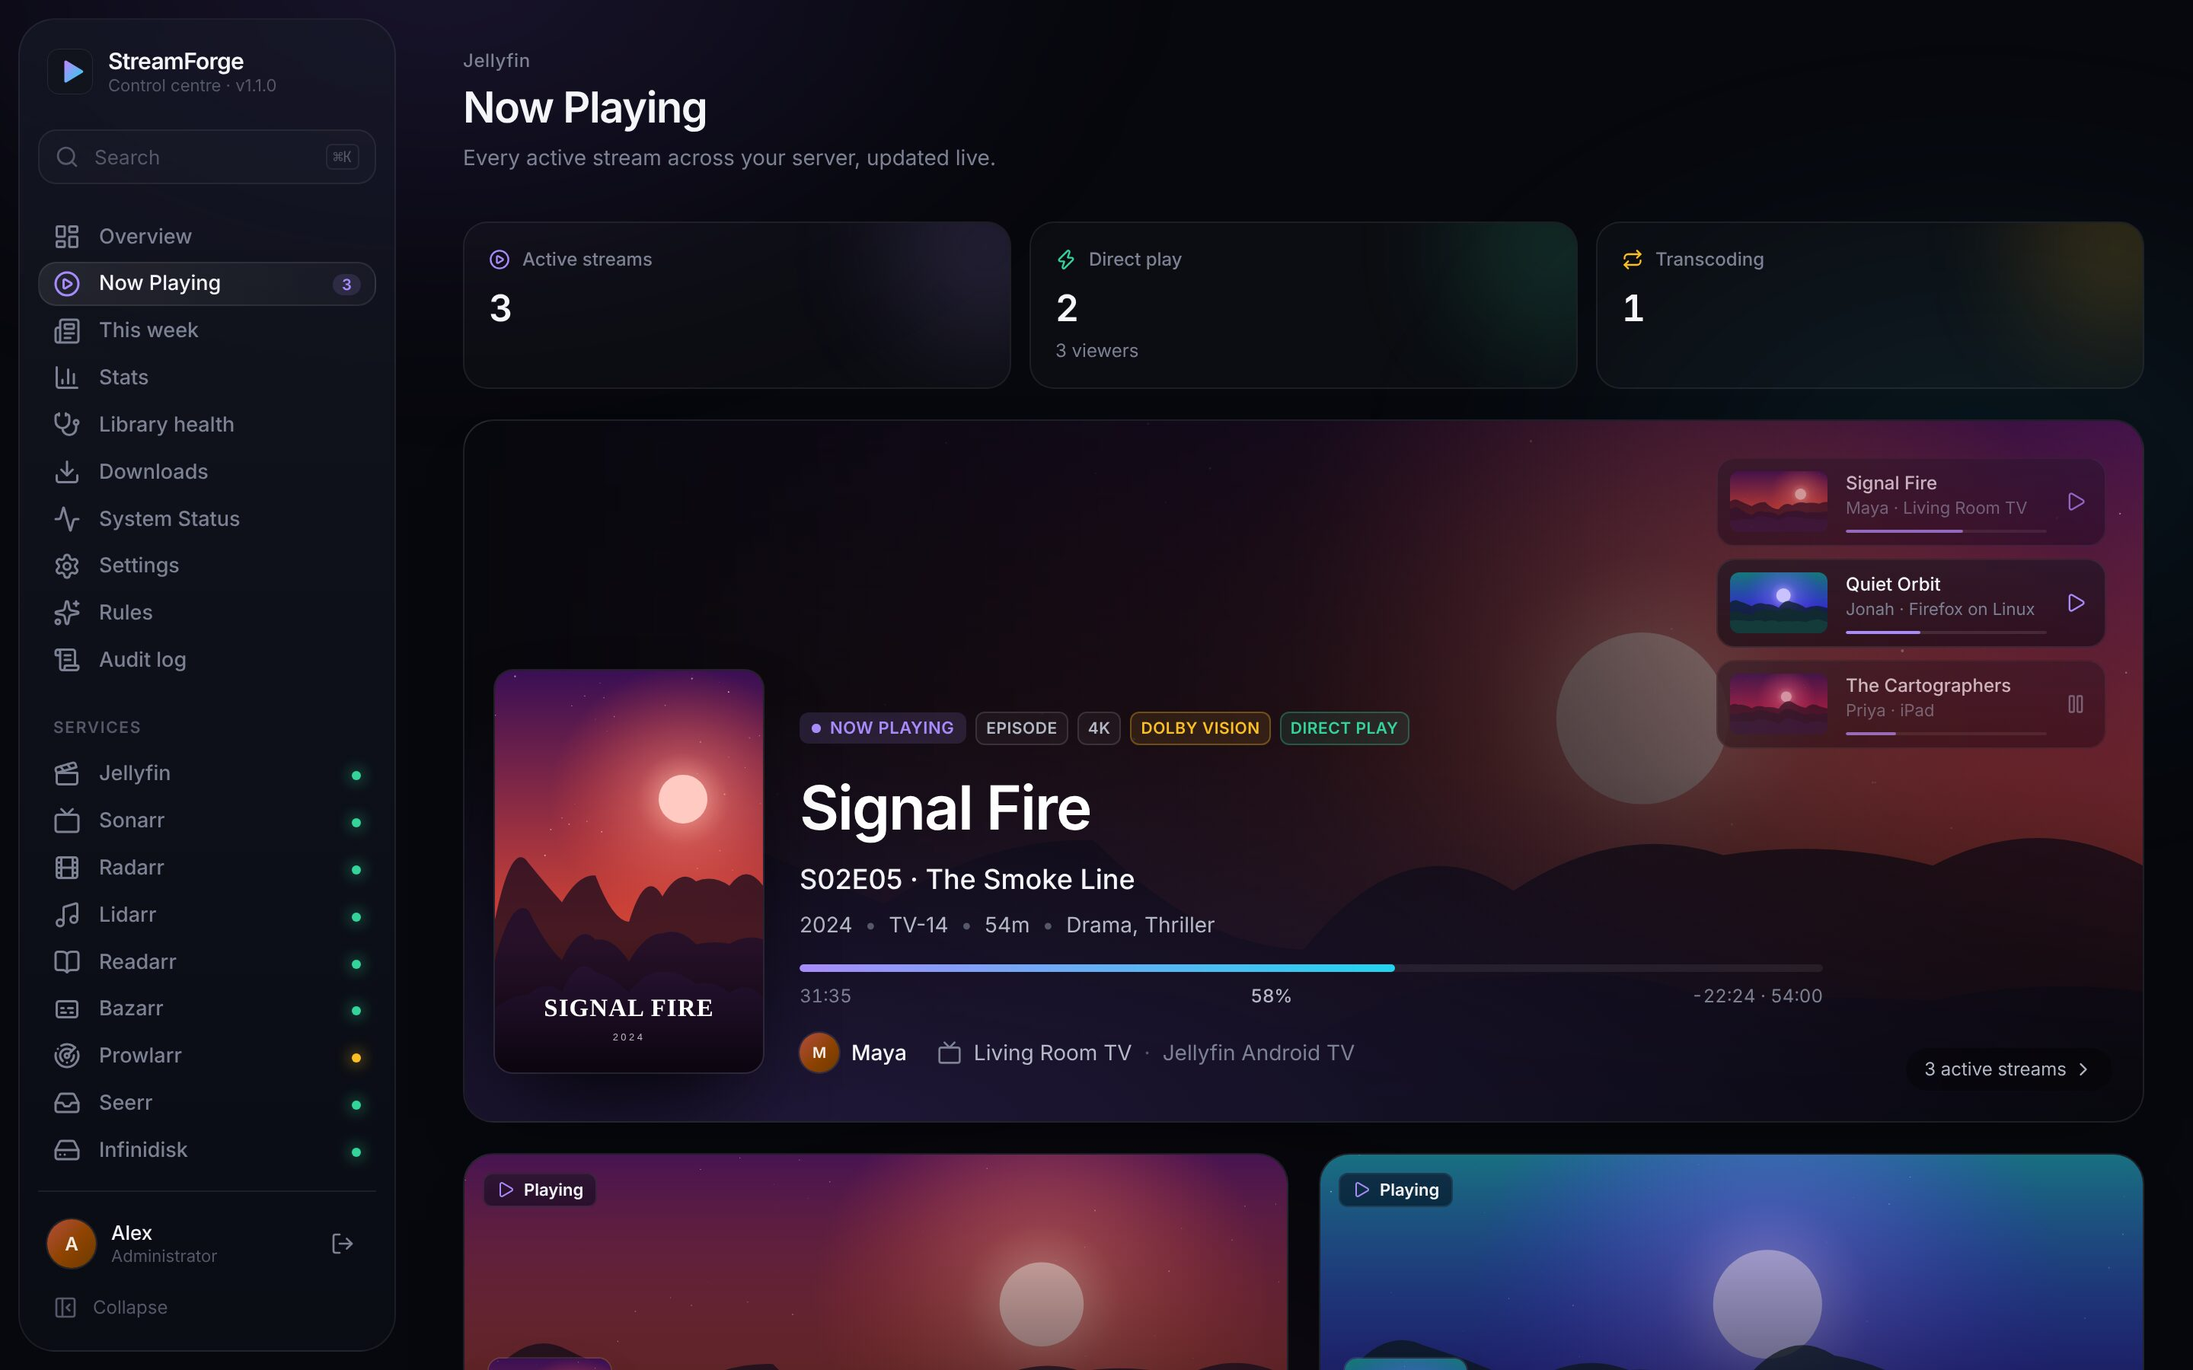
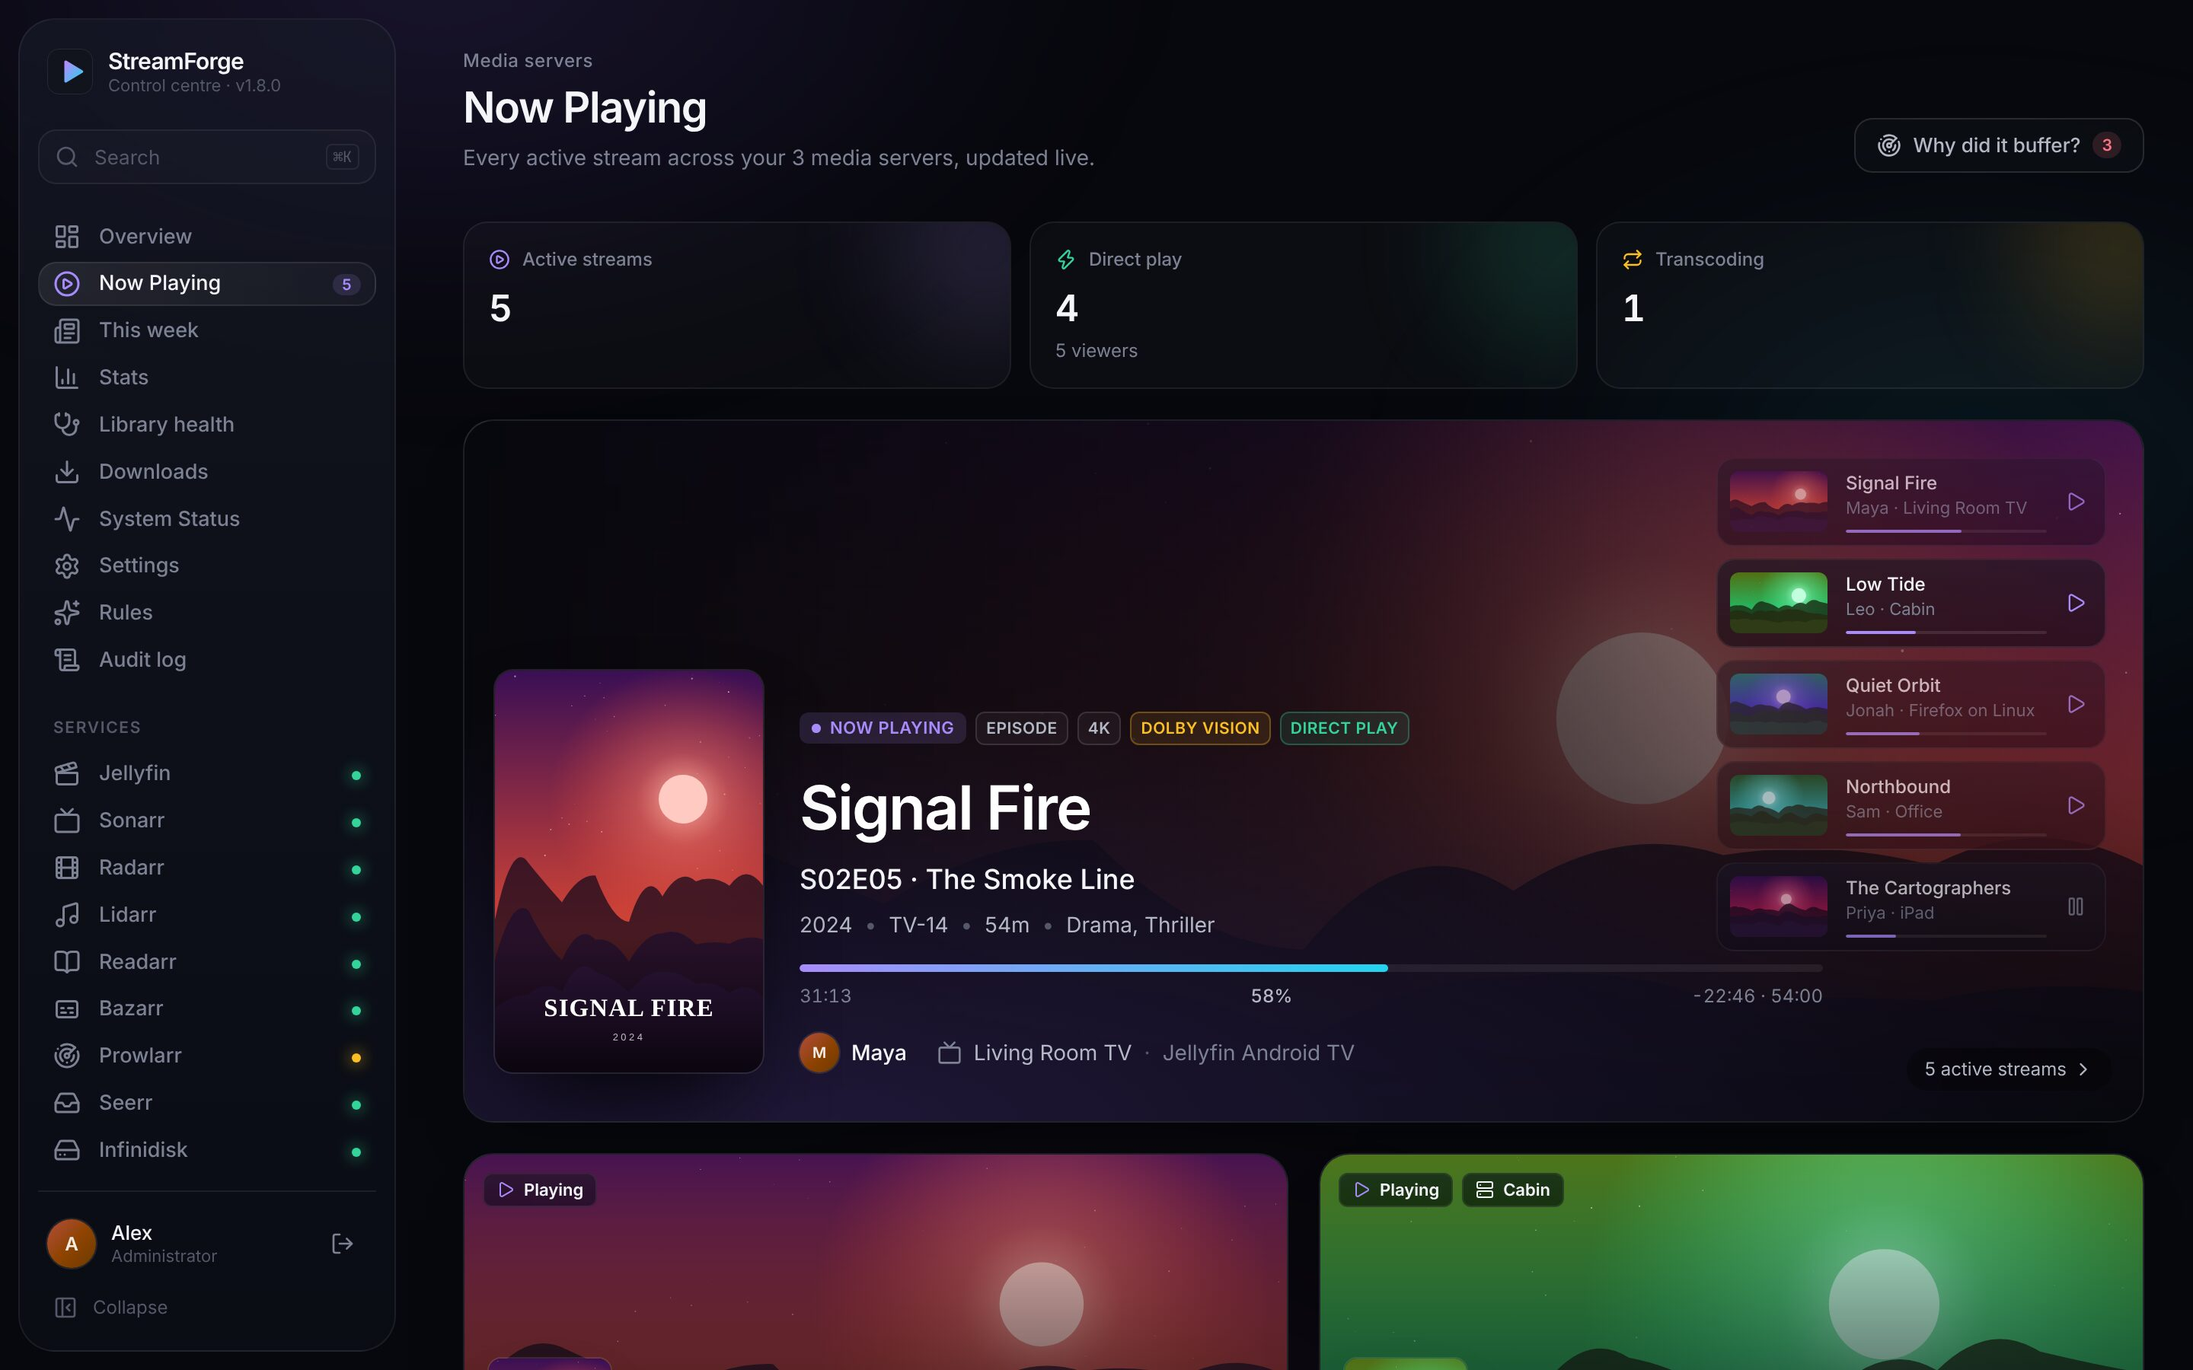
docs: refresh screenshots with Emby and Plex servers
The demo now has an Emby and a Plex server next to the main Jellyfin one:
their streams on Now Playing, a tab each on the media server page, health
rows on System Status and entries under Settings. The demo also stops
advertising an update when the app is already on the newest demo release.

Updated screenshots: dashboard, now-playing, jellyfin, system, settings and
phone-now-playing.

Claude-Session: https://claude.ai/code/session_01FvSRRnMdKnq4MdQ2X3WxbG

diff --git a/scripts/demo-server.ts b/scripts/demo-server.ts
@@ -13,6 +13,7 @@ import { analyse, findIncidents } from '../server/services/diagnosis/analyse.js'
 import { demoTicks } from './demo-diagnosis.js';
 import { demoLibrary, demoProfiles } from './demo-playability.js';
 import { parseNotes } from '../server/services/updates.js';
+import { VERSION as APP_VERSION } from '../server/version.js';
 import { libraryReport, statusOf, titleReport } from '../server/services/playability/report.js';
 import type {
   ActivityEntry,
@@ -207,7 +208,13 @@ interface Stream {
   videoCodec: string;
   audio: string;
   transcode?: NowPlaying['transcode'];
+  /** Set for streams on an extra media server. */
+  server?: { id: string; name: string; type: 'emby' | 'plex' };
 }
+
+/** Extra media servers in the demo: an Emby and a Plex server next to the main Jellyfin one. */
+const EMBY = { id: 'emby-office', name: 'Office', type: 'emby' as const };
+const PLEX = { id: 'plex-cabin', name: 'Cabin', type: 'plex' as const };
 
 const STREAMS: Stream[] = [
   {
@@ -261,20 +268,49 @@ const STREAMS: Stream[] = [
     videoCodec: 'HEVC',
     audio: 'AAC 2.0',
   },
+  {
+    user: USERS[4]!,
+    title: 'Low Tide',
+    episode: { season: 3, number: 4, name: 'Undertow' },
+    runtimeMin: 52,
+    startedMinAgo: 18,
+    client: 'Plex for Apple TV',
+    device: 'Cabin Apple TV',
+    resolution: '4K',
+    hdr: 'HDR10',
+    videoCodec: 'HEVC',
+    audio: 'EAC3 5.1',
+    server: PLEX,
+  },
+  {
+    user: USERS[5]!,
+    title: 'Northbound',
+    runtimeMin: 112,
+    startedMinAgo: 64,
+    client: 'Emby Theater',
+    device: 'Office PC',
+    resolution: '1080p',
+    videoCodec: 'H264',
+    audio: 'AC3 5.1',
+    server: EMBY,
+  },
 ];
 
 function nowPlaying(): NowPlaying[] {
-  return STREAMS.map((s, i) => {
+  const order = [STREAMS[0]!, STREAMS[3]!, STREAMS[1]!, STREAMS[4]!, STREAMS[2]!];
+  return order.map((s, i) => {
     const t = find(s.title);
     const runtimeMs = s.runtimeMin * MIN;
     const elapsed = s.paused ? s.startedMinAgo * MIN : s.startedMinAgo * MIN + (Date.now() - START);
     const positionMs = elapsed % runtimeMs;
+    const art = (type: 'Primary' | 'Backdrop' | 'Thumb') => ({ ...jfArt(t.title, type), ...(s.server ? { server: s.server.id } : {}) });
     return {
       sessionId: `demo-session-${i}`,
+      ...(s.server ? { server: s.server.id, serverName: s.server.name, serverType: s.server.type } : {}),
       user: { id: s.user.id, name: s.user.name },
       client: s.client,
       device: s.device,
-      appVersion: '10.11.2',
+      appVersion: s.server?.type === 'plex' ? '8.45' : s.server ? '3.0.20' : '10.11.2',
       lastActivity: iso(5_000),
       item: {
         id: `${slug(s.title)}${s.episode ? `-s${s.episode.season}e${s.episode.number}` : ''}`,
@@ -294,9 +330,9 @@ function nowPlaying(): NowPlaying[] {
         hdr: s.hdr,
         videoCodec: s.videoCodec,
         audio: s.audio,
-        poster: jfArt(t.title, 'Primary'),
-        backdrop: jfArt(t.title, 'Backdrop'),
-        thumb: jfArt(t.title, 'Thumb'),
+        poster: art('Primary'),
+        backdrop: art('Backdrop'),
+        thumb: art('Thumb'),
       },
       state: {
         positionMs,
@@ -308,6 +344,46 @@ function nowPlaying(): NowPlaying[] {
       transcode: s.transcode,
     };
   });
+}
+
+/** The extra server a demo request asks for with `?instance=`, if any. */
+function demoServer(req: express.Request) {
+  const id = req.query.instance;
+  return id === EMBY.id ? EMBY : id === PLEX.id ? PLEX : undefined;
+}
+
+function extraOverview(srv: typeof EMBY | typeof PLEX): JellyfinOverview {
+  const plex = srv.type === 'plex';
+  const streams = STREAMS.filter((s) => s.server?.id === srv.id).length;
+  return {
+    server: plex
+      ? { name: 'Cabin', version: '1.41.2', os: 'Linux 6.8', hasUpdateAvailable: true, hasPendingRestart: false }
+      : { name: 'Office', version: '4.8.10', os: 'Windows 11', architecture: 'X64', hasUpdateAvailable: false, hasPendingRestart: false },
+    counts: plex
+      ? { movies: 412, series: 64, episodes: 2310, albums: 0, songs: 0, artists: 0, books: 0, musicVideos: 0, collections: 0 }
+      : { movies: 236, series: 31, episodes: 1180, albums: 52, songs: 690, artists: 40, books: 0, musicVideos: 0, collections: 12 },
+    libraries: plex
+      ? [
+          { id: '1', name: 'Films', type: 'movies', locations: ['/data/films'], itemCount: 412, refreshing: false, image: jfArt('Saltwind', 'Backdrop') },
+          { id: '2', name: 'Television', type: 'tvshows', locations: ['/data/tv'], itemCount: 64, refreshing: false, image: jfArt('Low Tide', 'Backdrop') },
+        ]
+      : [
+          { id: '101', name: 'Movies', type: 'movies', locations: ['D:\\Movies'], itemCount: 236, refreshing: false, image: jfArt('Northbound', 'Backdrop') },
+          { id: '102', name: 'Shows', type: 'tvshows', locations: ['D:\\Shows'], itemCount: 31, refreshing: false, image: jfArt('Kitchen Brigade', 'Backdrop') },
+          { id: '103', name: 'Music', type: 'music', locations: ['D:\\Music'], itemCount: 52, refreshing: false, image: jfArt('Velvet Static', 'Backdrop') },
+        ],
+    users: {
+      total: plex ? 3 : 2,
+      active24h: plex ? 2 : 1,
+      list: (plex ? [USERS[0]!, USERS[4]!, USERS[1]!] : [USERS[5]!, USERS[0]!]).map((u, i) => ({
+        id: u.id,
+        name: u.name,
+        isAdmin: i === 0,
+        lastActivity: iso([5, 18, 30 * 60][i]! * MIN),
+      })),
+    },
+    sessions: { active: streams + 1, streams, transcoding: 0, directPlay: streams },
+  };
 }
 
 function jellyfinOverview(): JellyfinOverview {
@@ -325,14 +401,15 @@ function jellyfinOverview(): JellyfinOverview {
       active24h: 4,
       list: USERS.map((u, i) => ({ id: u.id, name: u.name, isAdmin: u.isAdmin, lastActivity: iso([2, 1, 1, 3, 26 * 60, 9 * 60][i]! * MIN) })),
     },
-    sessions: { active: 5, streams: STREAMS.length, transcoding: 1, directPlay: 2 },
+    sessions: { active: 5, streams: STREAMS.filter((s) => !s.server).length, transcoding: 1, directPlay: 2 },
   };
 }
 
 const LATEST_ORDER = ['Iron Bloom', 'Atlas Station', 'The Last Lighthouse', 'Velvet Static', 'Kitchen Brigade', 'The Glass Meridian', 'Saltwind', 'Starfall Academy', 'Northbound', 'Small Hours', 'Neon Harbor', 'Low Tide'];
 
-function latest(): LatestItem[] {
-  return LATEST_ORDER.map((name, i) => {
+function latest(server?: string): LatestItem[] {
+  const names = server === PLEX.id ? ['Saltwind', 'Low Tide', 'Neon Harbor', 'Iron Bloom', 'Atlas Station', 'Small Hours'] : server === EMBY.id ? ['Northbound', 'Kitchen Brigade', 'Velvet Static', 'The Glass Meridian', 'Starfall Academy'] : LATEST_ORDER;
+  return names.map((name, i) => {
     const t = find(name);
     return {
       id: slug(name),
@@ -347,6 +424,24 @@ function latest(): LatestItem[] {
       thumb: jfArt(name, 'Thumb'),
     };
   });
+}
+
+function extraActivity(srv: typeof EMBY | typeof PLEX): ActivityEntry[] {
+  const e: [string, string, string, number, string?][] =
+    srv.type === 'plex'
+      ? [
+          ['Leo watched Low Tide S3·E4', 'VideoPlayback', 'Information', 18, 'u-leo'],
+          ['Alex watched Saltwind', 'VideoPlayback', 'Information', 5 * 60, 'u-alex'],
+          ['Maya watched Atlas Station S1·E3', 'VideoPlayback', 'Information', 30 * 60, 'u-maya'],
+          ['Leo watched Low Tide S3·E3', 'VideoPlayback', 'Information', 26 * 60, 'u-leo'],
+        ]
+      : [
+          ['Sam is playing Northbound on Office PC', 'VideoPlayback', 'Information', 64, 'u-sam'],
+          ['Sam successfully authenticated', 'AuthenticationSucceeded', 'Information', 66, 'u-sam'],
+          ['Kitchen Brigade - S2E1 was added to Shows', 'ItemAdded', 'Information', 7 * 60],
+          ['Scan Media Library completed', 'TaskCompleted', 'Information', 8 * 60],
+        ];
+  return e.map(([name, type, severity, minAgo, userId], i) => ({ id: 500 - i, name, type, severity, date: iso(minAgo * MIN), userId }));
 }
 
 function activity(): ActivityEntry[] {
@@ -840,6 +935,11 @@ app.get('/api/config', json(() => ({
     { id: 'radarr', kind: 'radarr', name: 'Radarr', primary: true },
     { id: 'radarr-4k', kind: 'radarr', name: '4K', primary: false },
   ].filter((i) => !disabledServices.has(i.kind as ServiceId)),
+  jellyfinServers: [
+    { id: 'jellyfin', type: 'jellyfin', name: 'Homelab', primary: true },
+    { ...EMBY, primary: false },
+    { ...PLEX, primary: false },
+  ],
   access: null,
   downloadClients: true,
   moonfin: moonfin.enabled ? { openIn: moonfin.openIn, web: 'https://jellyfin.example.com/Moonfin/Web/' } : undefined,
@@ -860,7 +960,22 @@ const enabledHealth = () => {
   const h = health();
   const radarr = h.services.find((s) => s.id === 'radarr')!;
   const extra: ServiceHealth = { ...radarr, id: 'radarr-4k', instance: 'radarr-4k', name: 'Radarr · 4K', latencyMs: 83, publicUrl: undefined };
-  return { ...h, services: [...h.services, extra].filter((s) => !disabledServices.has(s.kind)) };
+  const jf = h.services.find((s) => s.id === 'jellyfin')!;
+  const emby: ServiceHealth = { ...jf, id: EMBY.id, instance: EMBY.id, serverType: 'emby', name: 'Emby · Office', version: '4.8.10', latencyMs: 46, meta: { server: 'Office' }, publicUrl: 'http://192.168.1.31:8096' };
+  const plex: ServiceHealth = {
+    ...jf,
+    id: PLEX.id,
+    instance: PLEX.id,
+    serverType: 'plex',
+    name: 'Plex · Cabin',
+    version: '1.41.2',
+    latencyMs: 61,
+    meta: { server: 'Cabin' },
+    publicUrl: 'http://192.168.1.40:32400/web',
+  };
+  // Extra media servers listed right after the main Jellyfin server.
+  const [main, ...rest] = h.services;
+  return { ...h, services: [main!, emby, plex, ...rest, extra].filter((s) => !disabledServices.has(s.kind)) };
 };
 app.get('/api/health', json(enabledHealth));
 app.post('/api/health/recheck', json(enabledHealth));
@@ -868,9 +983,15 @@ app.get('/api/system/host', json(host));
 app.get('/api/downloads', json(downloads));
 
 app.get('/api/jellyfin/now-playing', json(nowPlaying));
-app.get('/api/jellyfin/overview', json(jellyfinOverview));
-app.get('/api/jellyfin/latest', json(latest));
-app.get('/api/jellyfin/activity', json(activity));
+app.get('/api/jellyfin/overview', (req, res) => {
+  const srv = demoServer(req);
+  res.json(srv ? extraOverview(srv) : jellyfinOverview());
+});
+app.get('/api/jellyfin/latest', (req, res) => res.json(latest(demoServer(req)?.id)));
+app.get('/api/jellyfin/activity', (req, res) => {
+  const srv = demoServer(req);
+  res.json(srv ? extraActivity(srv) : activity());
+});
 app.get('/api/jellyfin/plays', json(plays));
 app.get('/api/sonarr/overview', json(sonarr));
 const radarrAutoImport: AutoImportStatus = { ...autoImport, settings: { enabled: false, intervalMinutes: 30 }, nextRun: undefined, stuck: 0, log: [] };
@@ -1082,7 +1203,18 @@ const demoReleases = [
     notes: parseNotes('### Features\n\n* explain why a stream buffered ([1908fb4](x))'),
   },
 ];
-const updates = () => ({ enabled: true, current: '1.6.0', latest: '1.8.0', available: '1.8.0', releases: demoReleases, checkedAt: Date.now() - 2 * 3600_000, repoUrl: 'https://github.com/ashveebee/streamforge/releases' });
+// The newest demo release only counts as an update while the app itself is older.
+const DEMO_LATEST = demoReleases[0]!.version;
+const newer = (a: string, b: string) => a.localeCompare(b, undefined, { numeric: true }) > 0;
+const updates = () => ({
+  enabled: true,
+  current: APP_VERSION,
+  latest: DEMO_LATEST,
+  available: newer(DEMO_LATEST, APP_VERSION) ? DEMO_LATEST : undefined,
+  releases: demoReleases,
+  checkedAt: Date.now() - 2 * 3600_000,
+  repoUrl: 'https://github.com/ashveebee/streamforge/releases',
+});
 app.get('/api/updates', json(updates));
 app.post('/api/updates/check', json(updates));
 

diff --git a/site/index.html b/site/index.html
@@ -545,7 +545,7 @@
               <li><svg class="i"><use href="#i-check"/></svg>Pause, message or stop a stream</li>
             </ul>
           </div>
-          <div class="shot"><img src="screenshots/now-playing.jpg" width="2880" height="1800" loading="lazy" alt="Now Playing page with active streams, artwork and playback details"></div>
+          <div class="shot"><img src="screenshots/now-playing.jpg" width="2880" height="1800" loading="lazy" alt="Now Playing page with active streams from Jellyfin, Emby and Plex, with artwork and playback details"></div>
         </div>
 
         <div class="show flip reveal">
@@ -577,7 +577,7 @@
               <li><svg class="i"><use href="#i-check"/></svg>Switch off services you don't use</li>
             </ul>
           </div>
-          <div class="shot"><img src="screenshots/settings.jpg" width="2880" height="2000" loading="lazy" alt="Settings page with an address and API key field for each service"></div>
+          <div class="shot"><img src="screenshots/settings.jpg" width="2880" height="2000" loading="lazy" alt="Settings page with the Jellyfin service and extra Emby and Plex servers"></div>
         </div>
 
         <div class="show flip reveal">
@@ -678,7 +678,7 @@
           </div>
         </div>
         <div class="panel" role="tabpanel" id="panel-jellyfin" aria-labelledby="tab-jellyfin" hidden>
-          <a class="shot" href="screenshots/jellyfin.jpg"><img src="screenshots/jellyfin.jpg" width="2880" height="1800" loading="lazy" alt="Jellyfin page with libraries, server details and recently added items"></a>
+          <a class="shot" href="screenshots/jellyfin.jpg"><img src="screenshots/jellyfin.jpg" width="2880" height="1800" loading="lazy" alt="Jellyfin page with tabs for Jellyfin, Emby and Plex servers, libraries, server details and recently added items"></a>
           <div class="txt">
             <div class="eyebrow">Jellyfin</div>
             <h3>Your server, at a glance</h3>

diff --git a/README.md b/README.md
@@ -20,11 +20,11 @@ server.
 
 <table>
   <tr>
-    <td width="50%"><a href="docs/screenshots/now-playing.jpg"><img src="docs/screenshots/now-playing.jpg" alt="Now Playing: every active stream with artwork, progress and playback details"></a><br><b>Now Playing.</b> Every stream, with direct play or transcode details.</td>
+    <td width="50%"><a href="docs/screenshots/now-playing.jpg"><img src="docs/screenshots/now-playing.jpg" alt="Now Playing: every active stream across Jellyfin, Emby and Plex with artwork, progress and playback details"></a><br><b>Now Playing.</b> Every stream on every media server, with direct play or transcode details.</td>
     <td width="50%"><a href="docs/screenshots/system.jpg"><img src="docs/screenshots/system.jpg" alt="System Status: health, response time and uptime for each service"></a><br><b>System Status.</b> Health, response times and issues for each service.</td>
   </tr>
   <tr>
-    <td><a href="docs/screenshots/jellyfin.jpg"><img src="docs/screenshots/jellyfin.jpg" alt="Jellyfin: libraries, server details and recently added items"></a><br><b>Jellyfin.</b> Libraries, users, server details and new additions.</td>
+    <td><a href="docs/screenshots/jellyfin.jpg"><img src="docs/screenshots/jellyfin.jpg" alt="Jellyfin page with tabs for a Jellyfin, an Emby and a Plex server: libraries, server details and recently added items"></a><br><b>Media servers.</b> Libraries, users, server details and new additions, with a tab per Jellyfin, Emby or Plex server.</td>
     <td><a href="docs/screenshots/sonarr.jpg"><img src="docs/screenshots/sonarr.jpg" alt="Sonarr: download queue, airing soon, auto-import and missing episodes"></a><br><b>Sonarr and Radarr.</b> Queues with actions, auto-import, missing items and what's airing.</td>
   </tr>
   <tr>
